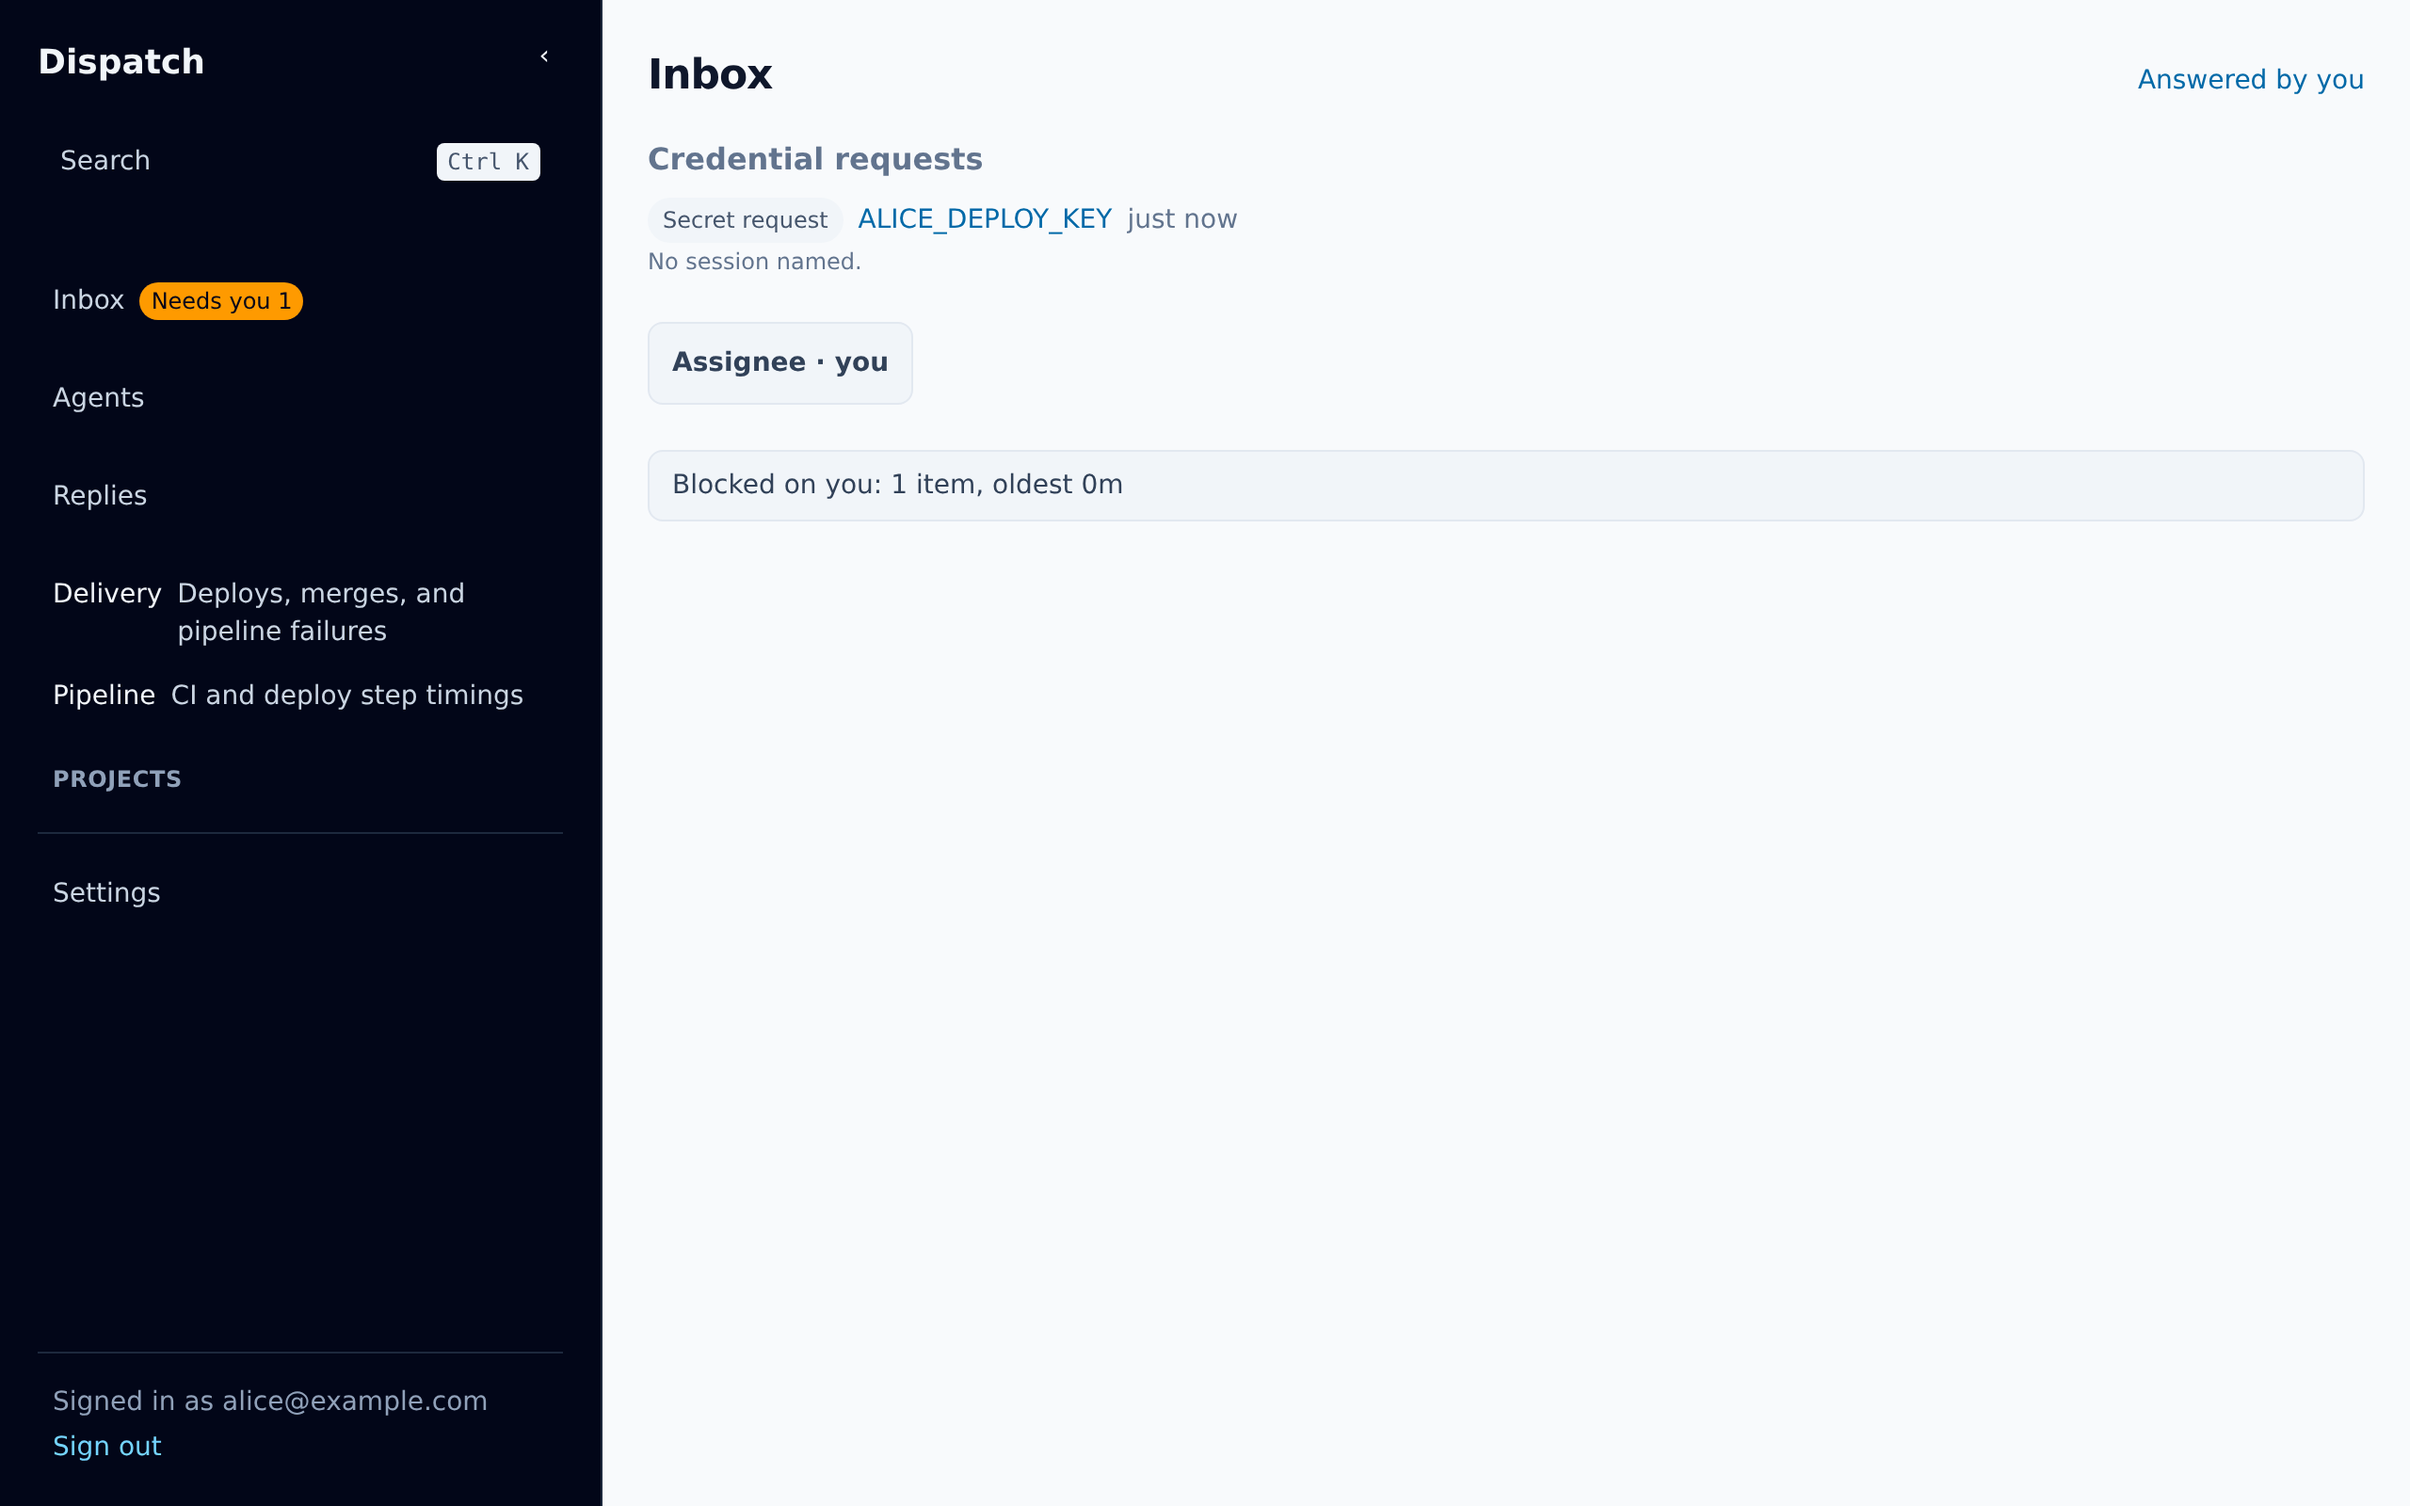
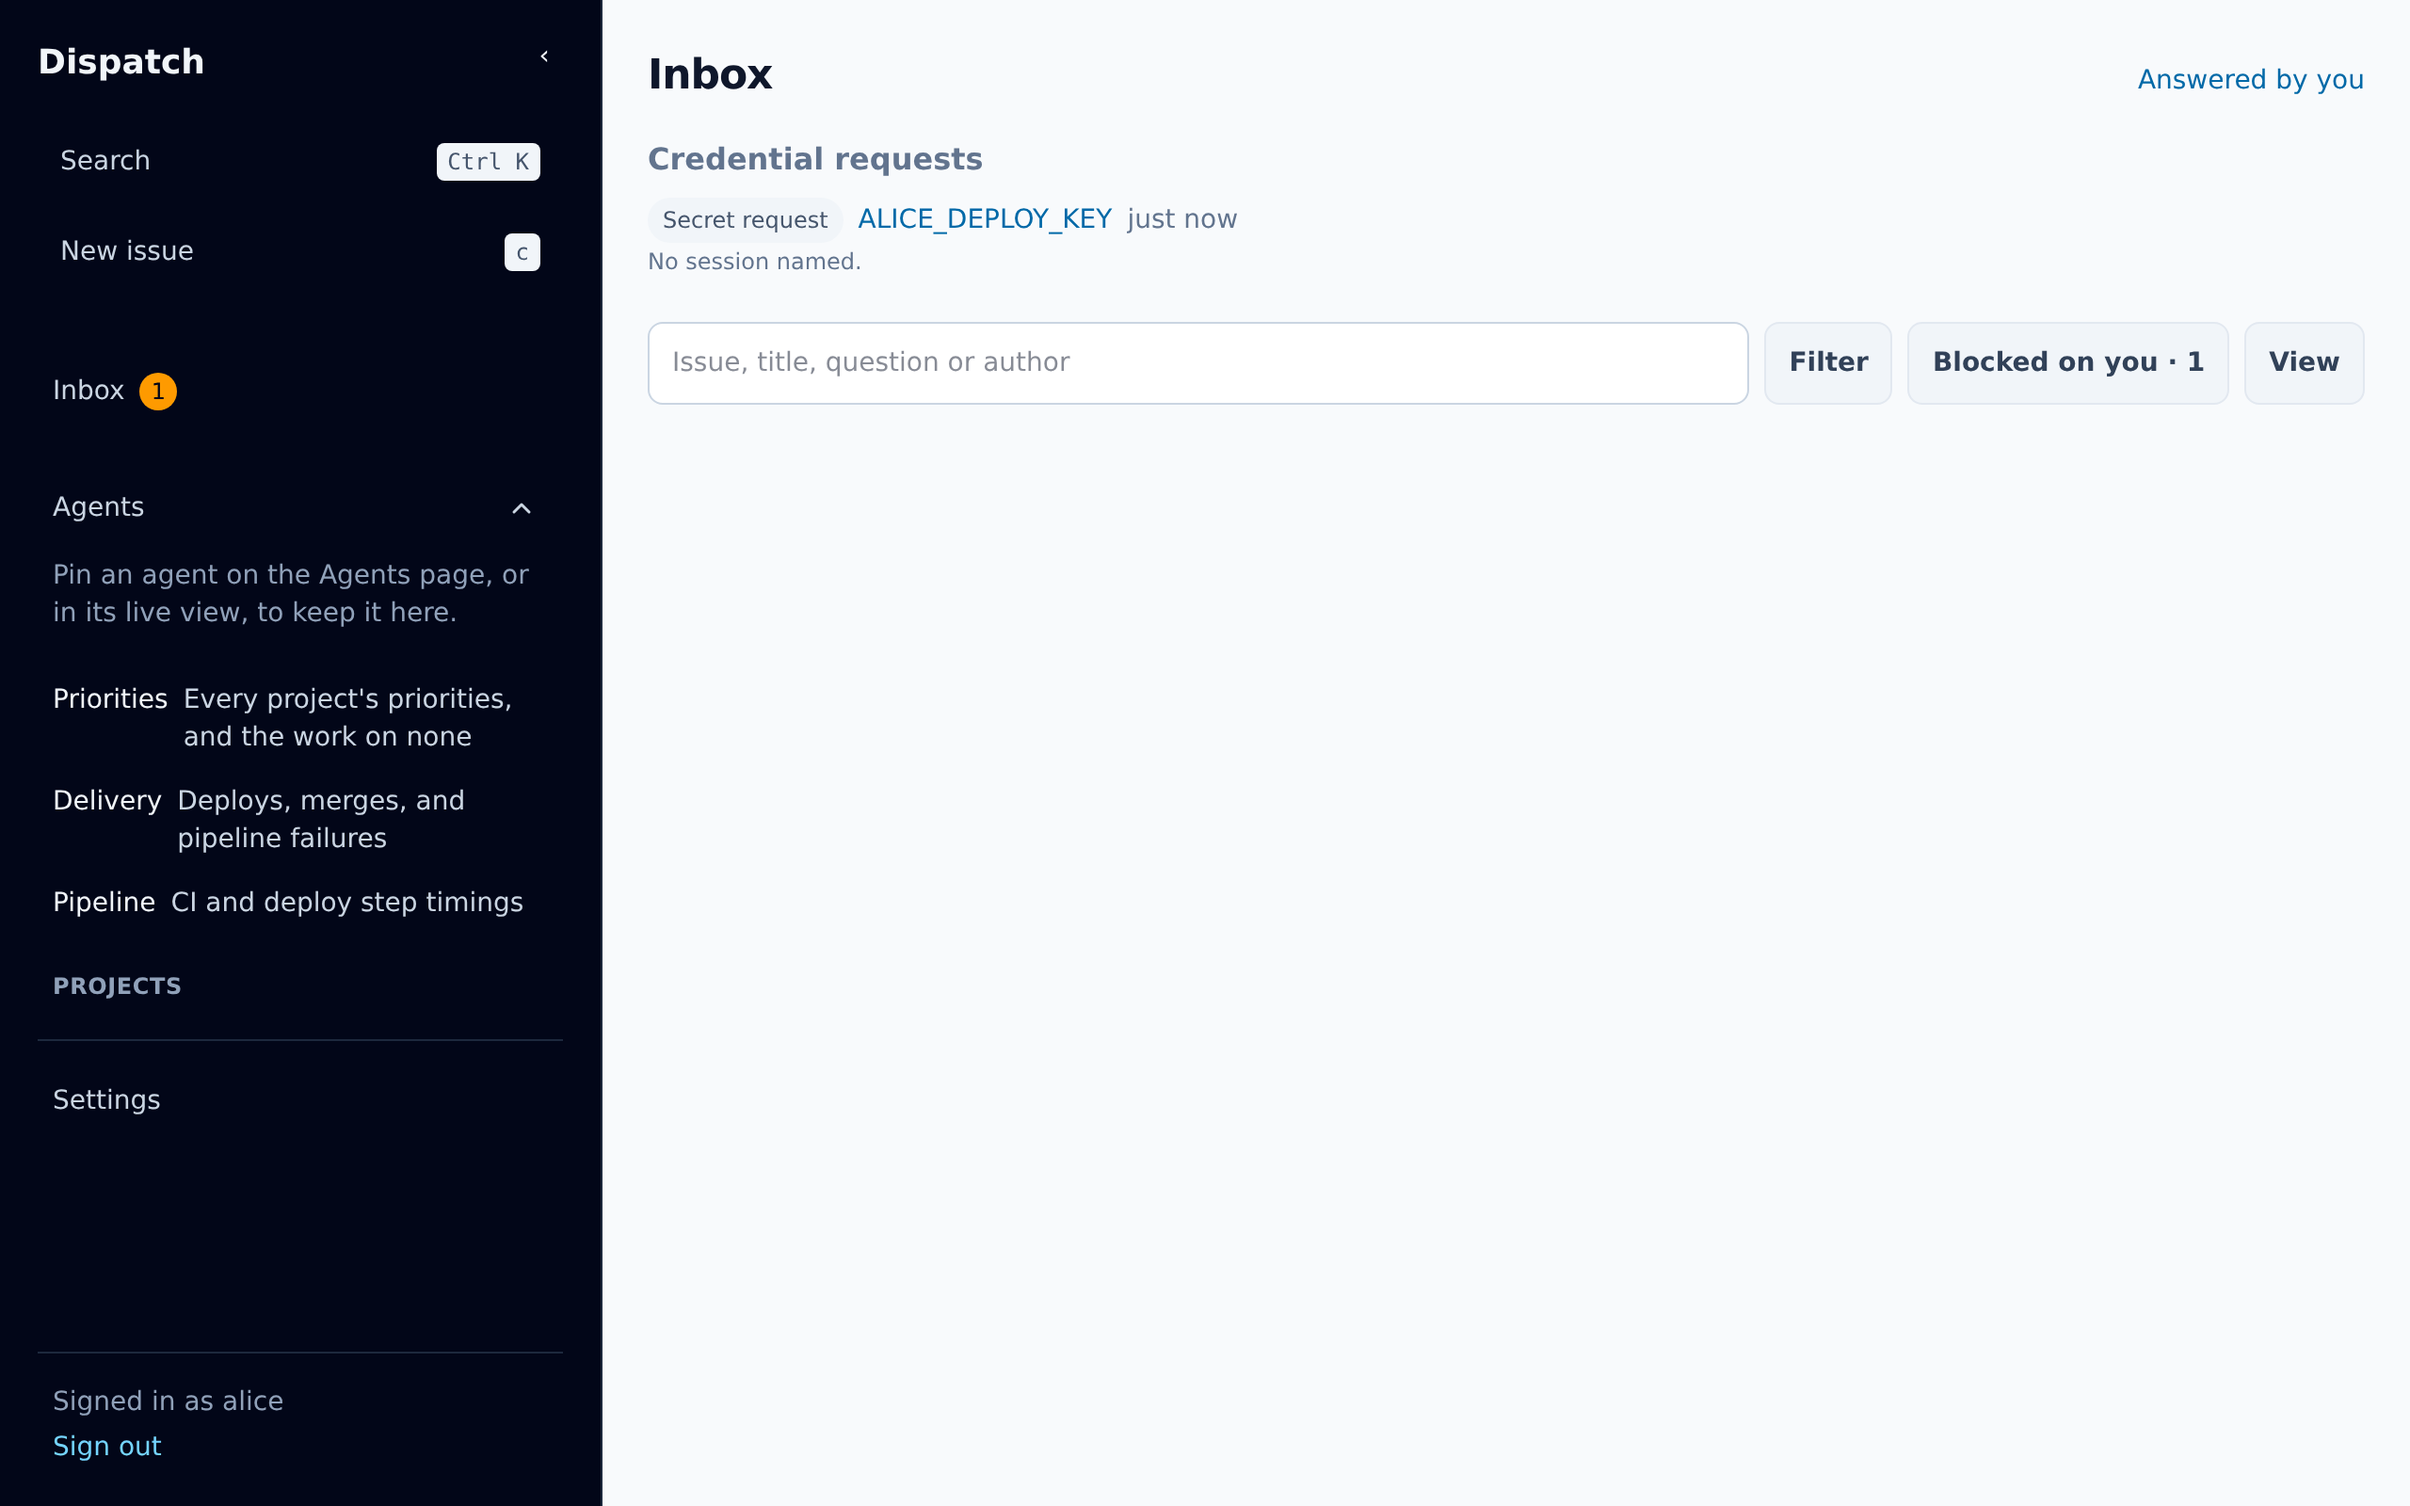
docs(dispatch): the broker walkthrough's Inbox still shows the Inbox's row with Blocked on you, taken again from the browser harness, and its words say what the build draws
Omp-Session: 01a1d434-d307-7485-ac77-25fb322eb56f
Legion-Role: implementer

diff --git a/docs/site/src/content/docs/broker/walkthrough.md b/docs/site/src/content/docs/broker/walkthrough.md
@@ -58,11 +58,11 @@ decides it.
 ## 4. Approve it
 
 The request is at the top of alice's Inbox, under **Credential requests**, and counts toward
-**Needs you** beside the sidebar's Inbox. The row is a link to the request's page on the secrets
+the number beside the sidebar's Inbox. The row is a link to the request's page on the secrets
 broker. The stills in this step come from Dispatch's browser test harness, whose request is a pod's
 request for alice's secret `ALICE_DEPLOY_KEY`; the page is the same for any request.
 
-![The Inbox, with a secret request for ALICE_DEPLOY_KEY under Credential requests, Needs you 1 beside Inbox in the sidebar, and Blocked on you: 1 item](/legion/media/broker/inbox-credential-request.png)
+![The Inbox, with a secret request for ALICE_DEPLOY_KEY under Credential requests, the count 1 beside Inbox in the sidebar, and Blocked on you · 1 in the Inbox's row of controls, between Filter and View](/legion/media/broker/inbox-credential-request.png)
 
 The link opens the request's page on the broker. The browser in the video holds no broker session
 yet, so the link passes through the broker's sign-in, which signs alice in and brings her to the

diff --git a/docs/site/media/broker/README.md b/docs/site/media/broker/README.md
@@ -108,9 +108,10 @@ request's command ran with the secret.
 
 The current `inbox-credential-request.png`, `credential-request.png` and
 `credential-request-approved.png` were taken instead from Dispatch's browser harness, which runs
-the real broker page (`packages/dispatch/e2e/run-broker.sh`), at this config's viewport and scale,
-on a machine without the `sudo` the rig's agent machine needs; their request is a pod's request
-for the harness's `ALICE_DEPLOY_KEY`. A rig run replaces them with the `DEMO_API_KEY` request.
+the real broker page (`packages/dispatch/e2e/run-broker.sh`), at the viewport and scale
+`screenshots.spec.ts` sets (1280 by 800 at device scale factor 2), on a machine without the `sudo`
+the rig's agent machine needs; their request is a pod's request for the harness's
+`ALICE_DEPLOY_KEY`. A rig run replaces them with the `DEMO_API_KEY` request.
 
 ## The walkthrough
 
